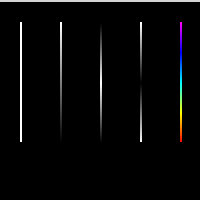
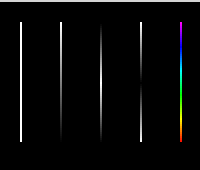
new new picture (with green)

diff --git a/main.c b/main.c
@@ -6,7 +6,7 @@
 /*   By: crenault <crenault@student.42.fr>          +#+  +:+       +#+        */
 /*                                                +#+#+#+#+#+   +#+           */
 /*   Created: 2015/02/20 21:22:50 by crenault          #+#    #+#             */
-/*   Updated: 2015/02/21 00:45:33 by crenault         ###   ########.fr       */
+/*   Updated: 2015/02/21 00:47:20 by crenault         ###   ########.fr       */
 /*                                                                            */
 /* ************************************************************************** */
 
@@ -94,23 +94,27 @@ int				main(int argc, char const **argv)
 	// another another another line
 	t_list		*gradient_lst4;
 	gradient_lst4 = NULL;
-	add_gradient_color(	get_new_gradient(0, 0.25,
+	add_gradient_color(	get_new_gradient(0, 0.2,
 											get_new_color(255, 0, 0),
 											get_new_color(255, 255, 0)
 										),
 						&gradient_lst4);
-	add_gradient_color(	get_new_gradient(0.25, 0.5,
+	add_gradient_color(	get_new_gradient(0.2, 0.4,
 											get_new_color(255, 255, 0),
+											get_new_color(0, 255, 0)
+										),
+						&gradient_lst4);
+	add_gradient_color(	get_new_gradient(0.4, 0.6,
+											get_new_color(0, 255, 0),
 											get_new_color(0, 255, 255)
 										),
 						&gradient_lst4);
-	#pragma message("LOL: need green color !!!")
-	add_gradient_color(	get_new_gradient(0.5, 0.75,
+	add_gradient_color(	get_new_gradient(0.6, 0.8,
 											get_new_color(0, 255, 255),
 											get_new_color(0, 0, 255)
 										),
 						&gradient_lst4);
-	add_gradient_color(	get_new_gradient(0.75, 1,
+	add_gradient_color(	get_new_gradient(0.8, 1,
 											get_new_color(0, 0, 255),
 											get_new_color(255, 0, 255)
 										),
